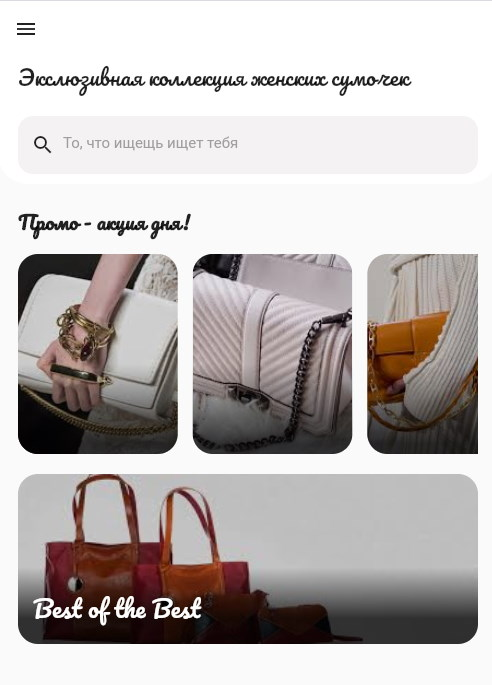
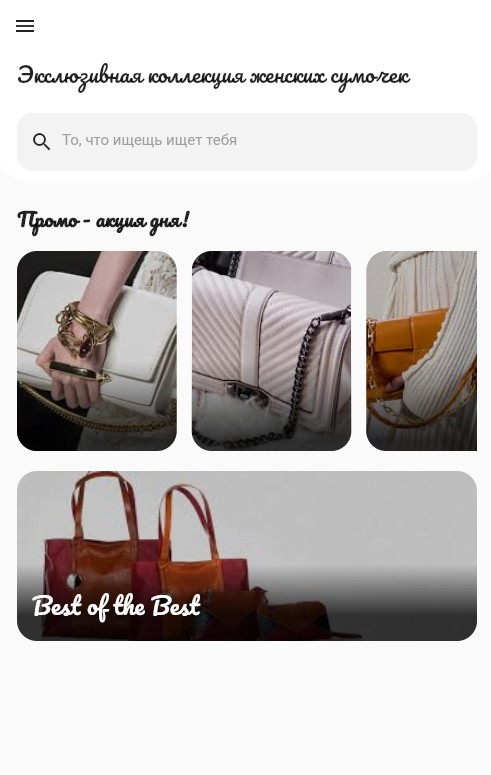
some change

diff --git a/lib/main.dart b/lib/main.dart
@@ -6,7 +6,6 @@ void main() {
 }
 
 class MyApp extends StatelessWidget {
-  // This widget is the root of your application.
   @override
   Widget build(BuildContext context) {
     return MaterialApp(
@@ -19,8 +18,6 @@ class MyApp extends StatelessWidget {
 }
 
 class HomePage extends StatefulWidget {
-  //HomePage({Key key}) : super(key: key);
-
   @override
   _HomePageState createState() => _HomePageState();
 }
@@ -31,7 +28,6 @@ class _HomePageState extends State<HomePage> {
     return Scaffold(
       appBar: AppBar(
         backgroundColor: Colors.white,
-        brightness: Brightness.light,
         elevation: 0,
         leading: IconButton(
           icon: Icon(
@@ -76,7 +72,7 @@ class _HomePageState extends State<HomePage> {
                         decoration: InputDecoration(
                           border: InputBorder.none,
                           prefixIcon: Icon(Icons.search, color: Colors.black87),
-                          hintText: 'То, что ищещь ищет тебя',
+                          hintText: 'То, что ищешь, тоже ищет тебя.',
                           hintStyle:
                               TextStyle(color: Colors.grey, fontSize: 15),
                         ),

diff --git a/lib/promoCard.dart b/lib/promoCard.dart
@@ -1,5 +1,5 @@
 import 'package:flutter/material.dart';
-import 'package:flutter/widgets.dart';
+//import 'package:flutter/widgets.dart';
 
 Widget promoCard(image) => AspectRatio(
       aspectRatio: 2.62 / 3,
